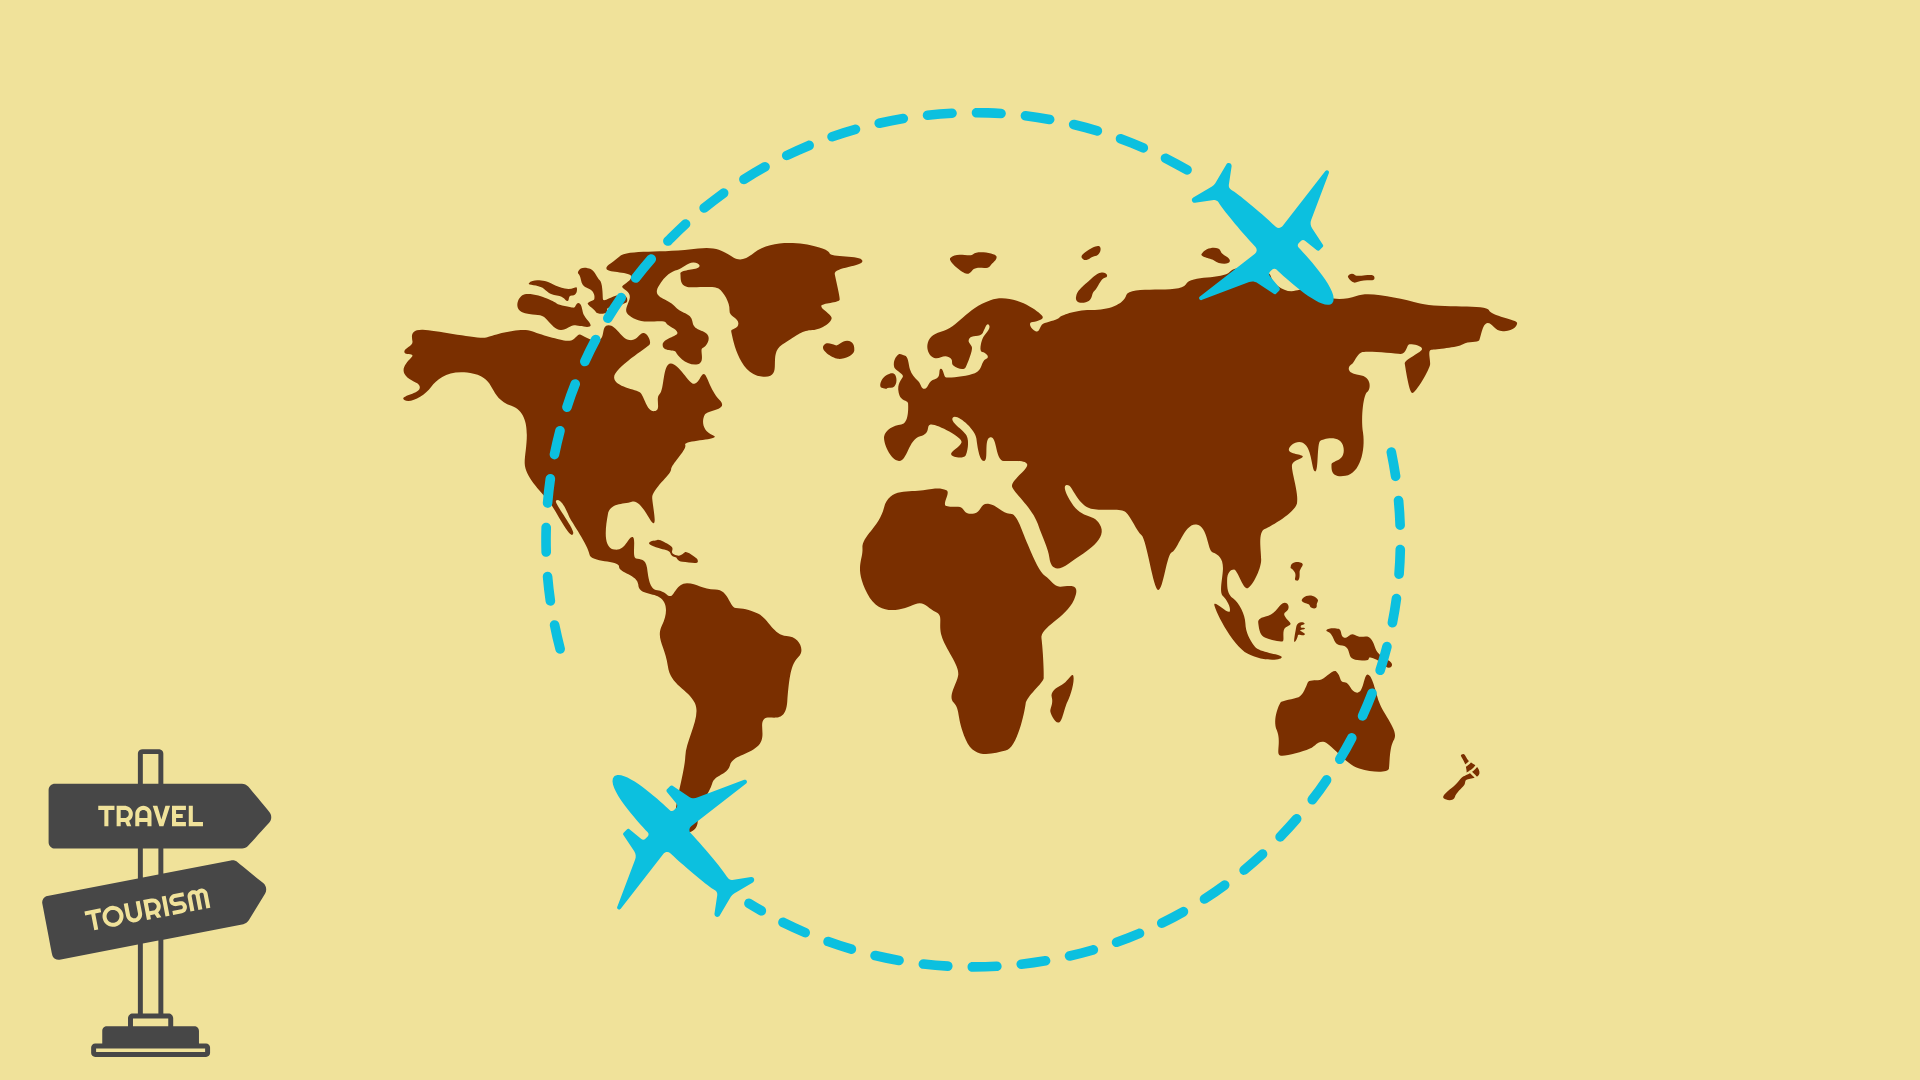
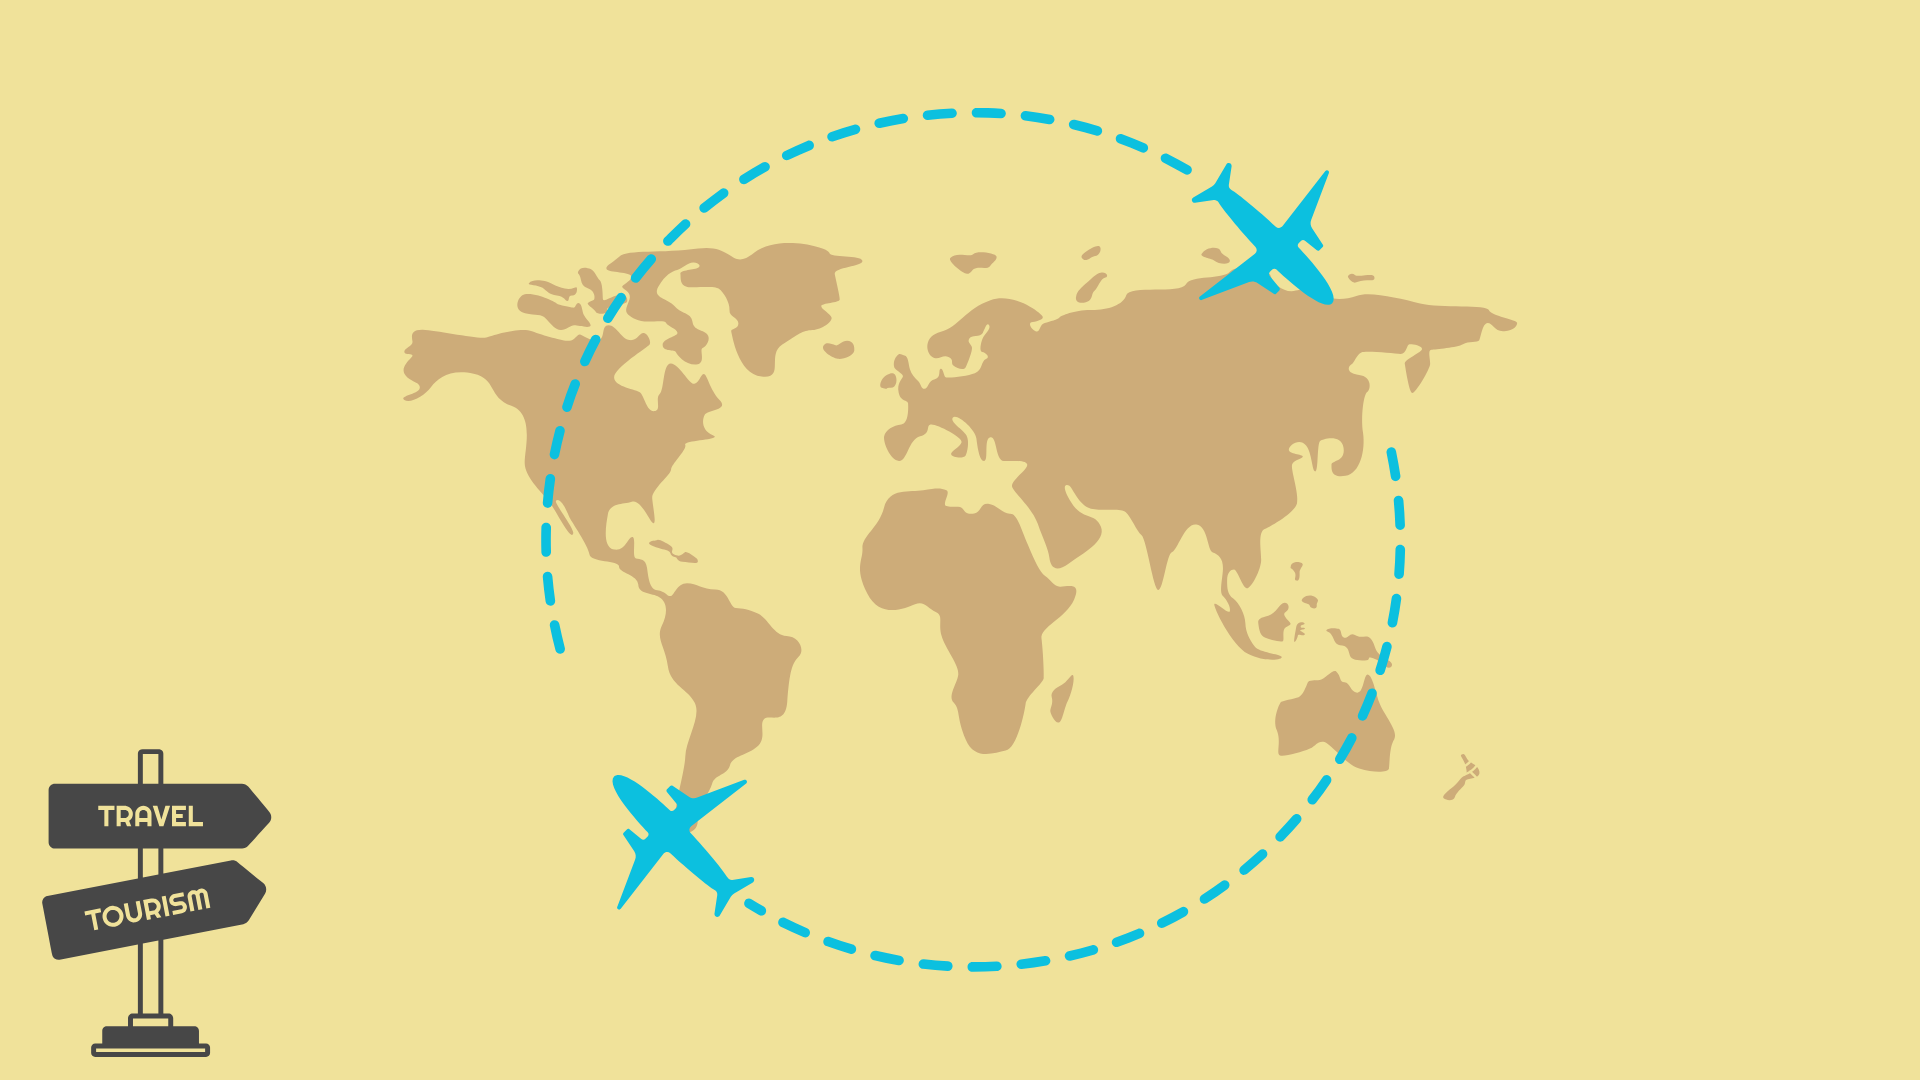
test

Changed region(s): [[0.1875, 0.2139, 0.7812, 0.7333], [0.75, 0.7028, 0.7812, 0.7333], [0.5, 0.2139, 0.5312, 0.2444]]

diff --git a/Homepage Styling.css b/Homepage Styling.css
@@ -96,6 +96,12 @@ nav ul.menu li ul.dropdown li a {
 #section1 {
     height: calc(100vh - clamp(60px, 10vh, 75px));
     overflow: hidden;
+    background-color: #f0e29a;
+    background-image: url('Visuals/Section\ 1\ BG.png');
+    background-size: contain;
+    background-position: center;
+    background-repeat: no-repeat;
+    position: relative;
 }
 
 .hero-content {
@@ -107,6 +113,8 @@ nav ul.menu li ul.dropdown li a {
     display: flex;
     align-items: center;
     justify-content: center;
+    position: relative;
+    z-index: 1;
 }
 
 .hero-content svg {
@@ -120,7 +128,7 @@ nav ul.menu li ul.dropdown li a {
 
 /* SECTION 2 */
 #section2 {
-    background-color: #7e212a;
+    background-color: #86cfff;
     position: relative;
     min-height: 100vh;
     height: 100vh;
@@ -128,7 +136,7 @@ nav ul.menu li ul.dropdown li a {
 
 #h2s2 {
     text-align: center;
-    color: aliceblue;
+    color: black;
     font-size: clamp(28px, 5vw, 50px);
     margin-bottom: clamp(15px, 2vh, 20px);
 }
@@ -186,13 +194,13 @@ nav ul.menu li ul.dropdown li a {
     align-items: center;
     height: calc(100vh - clamp(50px, 8vh, 60px));
     overflow: hidden;
-    background-color: #A24857;
+    background-color: #f0e29a;
     padding: clamp(15px, 3vh, 30px) clamp(10px, 2vw, 20px) clamp(10px, 2vh, 20px) clamp(10px, 2vw, 20px);
 }
 
 #h2s3 {
     margin-bottom: clamp(15px, 3vh, 40px);
-    color: aliceblue;
+    color: black;
     font-size: clamp(28px, 5vw, 50px);
     flex-shrink: 0;
 }
@@ -201,17 +209,17 @@ nav ul.menu li ul.dropdown li a {
 .services-row {
     display: flex;
     justify-content: center;
-    align-items: stretch;
+    align-items: center;
     gap: clamp(15px, 2vw, 25px);
     width: 100%;
     max-width: 1200px;
-    flex: 1;
-    max-height: 100%;
 }
 
 .service-box {
     flex: 1;
     max-width: 260px;
+    height: clamp(180px, 30vh, 280px);
+    max-height: 280px;
     background-color: #fefcef;
     border: 3px solid #7e212a;
     border-radius: 15px;
@@ -227,9 +235,10 @@ nav ul.menu li ul.dropdown li a {
 
 .service-box img {
     max-width: 80%;
-    max-height: clamp(60px, 12vh, 120px);
+    height: clamp(80px, 15vh, 120px);
+    max-height: 120px;
     object-fit: contain;
-    flex-shrink: 1;
+    flex-shrink: 0;
 }
 
 .service-box span {
@@ -242,8 +251,8 @@ nav ul.menu li ul.dropdown li a {
 
 /* FOOTER */
 footer {
-    background-color: #7e212a;
-    color: white;
+    background-color: #86cfff;
+    color: black;
     width: 100%;
     padding: clamp(8px, 1.5vh, 10px) clamp(10px, 2vw, 20px);
     height: clamp(50px, 8vh, 60px);
@@ -295,6 +304,12 @@ footer {
         max-width: 45%;
         min-width: 150px;
         flex: 0 1 45%;
+        height: clamp(160px, 25vh, 220px);
+        max-height: 220px;
+    }
+    .service-box img {
+        height: clamp(60px, 12vh, 100px);
+        max-height: 100px;
     }
 }
 
@@ -328,6 +343,12 @@ footer {
         max-width: 100%;
         min-width: 100%;
         flex: 0 1 auto;
+        height: clamp(140px, 20vh, 180px);
+        max-height: 180px;
+    }
+    .service-box img {
+        height: clamp(50px, 10vh, 80px);
+        max-height: 80px;
     }
     .services-row {
         flex-direction: column;
@@ -357,7 +378,12 @@ footer {
     #h2s3 {
         margin-bottom: 15px;
     }
+    .service-box {
+        height: clamp(140px, 25vh, 180px);
+        max-height: 180px;
+    }
     .service-box img {
-        max-height: 60px;
+        height: clamp(50px, 12vh, 70px);
+        max-height: 70px;
     }
 }

diff --git a/index.html b/index.html
@@ -49,17 +49,27 @@
                 <!-- Sub curve -->
                 <path id="curve-sub" d="M30,160 Q250,90 470,160" fill="transparent" />
 
-                <!-- Main text -->
+                <!-- Main text with white stroke -->
+                <text font-family="Arial" font-size="28" stroke="white" stroke-width="6" fill="none" font-weight="bold">
+                    <textPath href="#curve-main" startOffset="50%" text-anchor="middle">
+                        WELCOME TO TOURISM X LIBRARY
+                    </textPath>
+                </text>
                 <text font-family="Arial" font-size="28" fill="black" font-weight="bold">
                     <textPath href="#curve-main" startOffset="50%" text-anchor="middle">
                         WELCOME TO TOURISM X LIBRARY
                     </textPath>
                 </text>
 
-                <!-- Sub text -->
+                <!-- Sub text with white stroke -->
+                <text font-family="Arial" font-size="18" stroke="white" stroke-width="5" fill="none" font-weight="bold">
+                    <textPath href="#curve-sub" startOffset="50%" text-anchor="middle">
+                        "Guiding Pathways to Tourism Knowledge"
+                    </textPath>
+                </text>
                 <text font-family="Arial" font-size="18" fill="black" font-weight="bold">
                     <textPath href="#curve-sub" startOffset="50%" text-anchor="middle">
-                        Guiding Pathways to Tourism Knowledge
+                        "Guiding Pathways to Tourism Knowledge"
                     </textPath>
                 </text>
 
@@ -77,7 +87,8 @@
 
     <!-- SECTION 2 : NEWS -->
     <section class="section" id="section2">
-        <h2 id="h2s2">News</h2>
+        
+      <h2 id="h2s2">News</h2>
 
         <div class="slideshow-container">
 
@@ -134,7 +145,7 @@
         <div class="footer-container">
 
             <div class="footer-left">
-                © Unity Space Library, 2025. This library portal is to complete a group project under IML625
+                © Tourism Library, 2025. This library portal is to complete a group project under IML625.
             </div>
 
             <div class="footer-right">
